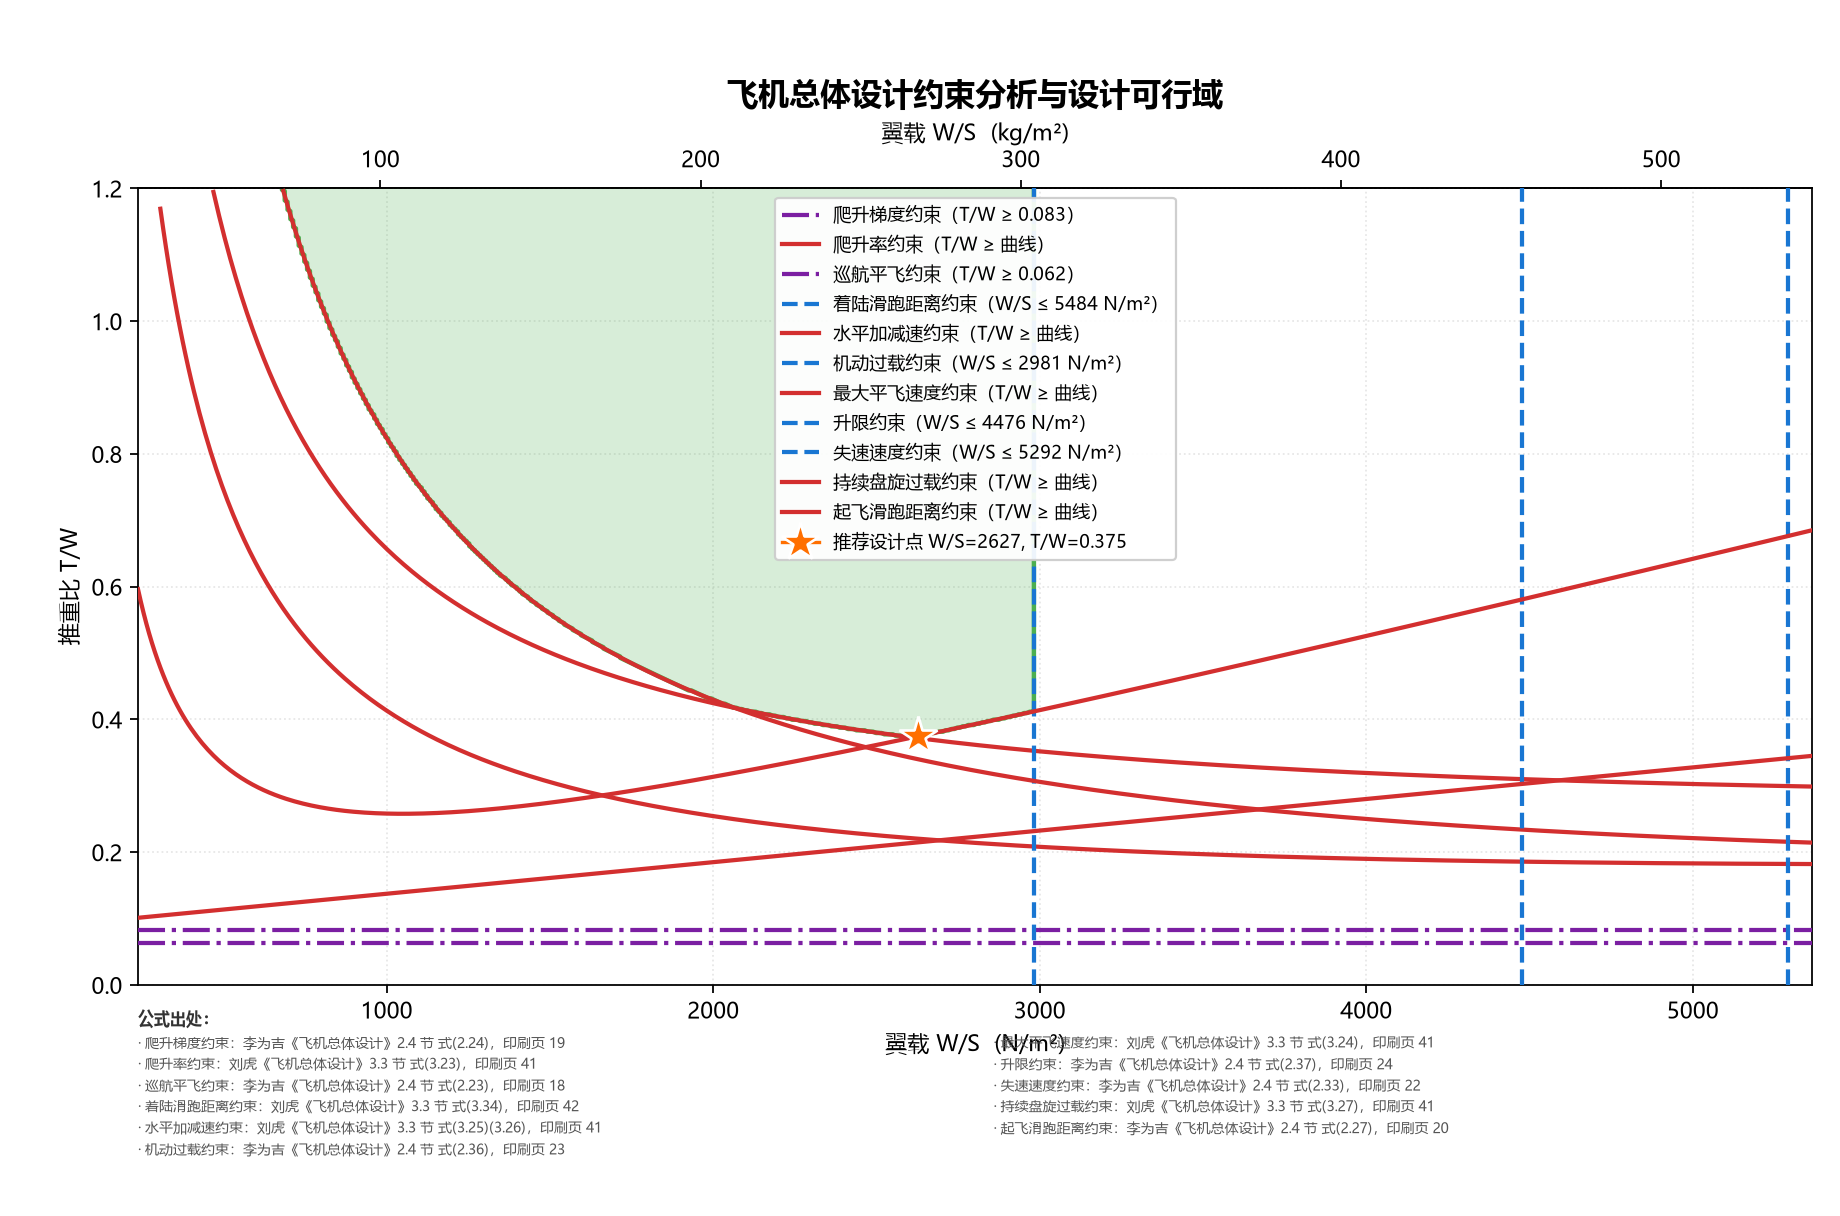
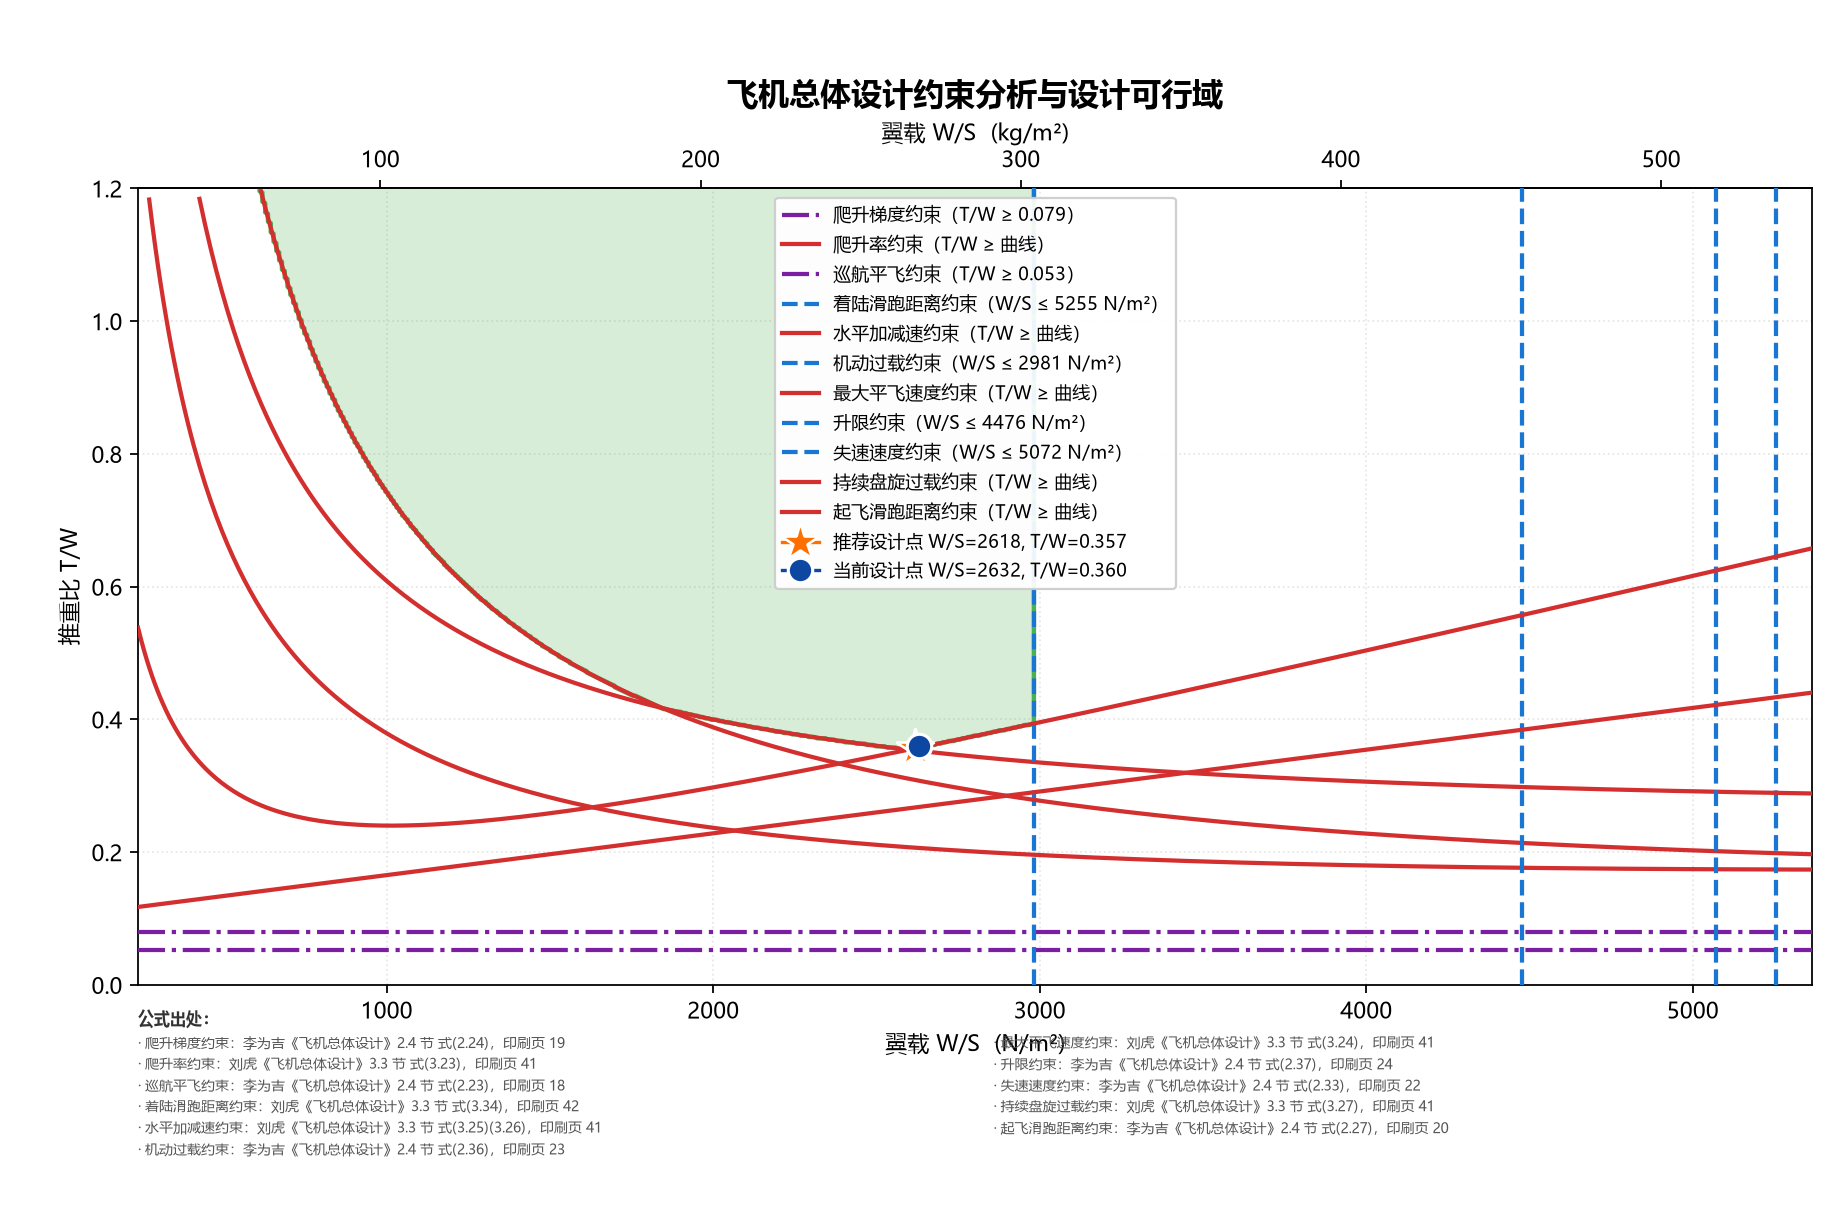
current design point

diff --git a/core/analyzer.py b/core/analyzer.py
@@ -61,6 +61,16 @@ class ConstraintTrace:
 
 
 @dataclass
+class PointEvaluation:
+    """对平面上某一点的设计校核结果。"""
+
+    ws: float
+    tw: float
+    feasible: bool
+    violated: list[str]          # 未满足的约束 key
+
+
+@dataclass
 class FeasibleRegion:
     """设计可行域。"""
 
@@ -105,6 +115,83 @@ class FeasibleRegion:
         col = int(np.flatnonzero(self.mask[row]).max())
         return float(self.ws_grid[col]), float(self.tw_grid[row])
 
+    @property
+    def current_design_point(self) -> tuple[float, float] | None:
+        """用户当前设计在 (W/S, T/W) 平面上的位置。
+
+        由 ``takeoff_weight``、``wing_area``、``takeoff_thrust`` 三个参数确定。
+        缺任一参数则返回 None。
+
+        注意：可行域本身与总重**无关**，改动总重只会移动本点，
+        不会改变可行域 —— 这是约束分析的固有性质，不是缺陷。
+        """
+        if self.params is None:
+            return None
+
+        weight = getattr(self.params, "takeoff_weight", None)
+        area = getattr(self.params, "wing_area", None)
+        thrust = getattr(self.params, "takeoff_thrust", None)
+        if not weight or not area or not thrust:
+            return None
+        if weight <= 0.0 or area <= 0.0:
+            return None
+
+        return float(weight / area), float(thrust / weight)
+
+    def evaluate_point(self, ws: float, tw: float) -> PointEvaluation:
+        """校核平面上任意一点，列出它未满足的约束。
+
+        Args:
+            ws: 翼载, N/m²。
+            tw: 推重比。
+
+        Returns:
+            `PointEvaluation`。
+        """
+        violated: list[str] = []
+
+        for trace in self.traces:
+            if trace.kind is ConstraintKind.CURVE:
+                required = float(np.interp(ws, trace.ws, trace.curve))
+                if not np.isfinite(required):
+                    violated.append(trace.key)
+                    continue
+                ok = (
+                    tw >= required
+                    if trace.sense is Sense.GE
+                    else tw <= required
+                )
+            elif trace.kind is ConstraintKind.VERTICAL:
+                ok = (
+                    ws <= trace.ws_bound
+                    if trace.sense is Sense.LE
+                    else ws >= trace.ws_bound
+                )
+            else:
+                ok = (
+                    tw >= trace.tw_bound
+                    if trace.sense is Sense.GE
+                    else tw <= trace.tw_bound
+                )
+
+            if not ok:
+                violated.append(trace.key)
+
+        return PointEvaluation(ws=ws, tw=tw, feasible=not violated, violated=violated)
+
+    def sizing_at(self, ws: float, tw: float) -> tuple[float, float] | None:
+        """把可行域上的一点折算成具体的机翼面积与推力。
+
+        Returns:
+            ``(机翼面积 S / m², 海平面静推力 F0 / N)``；缺总重参数时返回 None。
+        """
+        if self.params is None:
+            return None
+        weight = getattr(self.params, "takeoff_weight", None)
+        if not weight or weight <= 0.0 or ws <= 0.0:
+            return None
+        return float(weight / ws), float(weight * tw)
+
     def describe(self) -> str:
         """生成人类可读的结论摘要。"""
         from .units import wing_loading_n_to_kg
@@ -148,6 +235,44 @@ class FeasibleRegion:
                 f"  推荐设计点（T/W 最小）：W/S = {ws:.0f} N/m²"
                 f"（{wing_loading_n_to_kg(ws):.1f} kg/m²），T/W = {tw:.3f}"
             )
+            sizing = self.sizing_at(ws, tw)
+            if sizing is not None:
+                area, thrust = sizing
+                lines.append(
+                    f"      折算到起飞重量 → 机翼面积 S = {area:.1f} m²，"
+                    f"需海平面静推力 F0 = {thrust:,.0f} N"
+                )
+
+        current = self.current_design_point
+        if current is not None:
+            ws_c, tw_c = current
+            evaluation = self.evaluate_point(ws_c, tw_c)
+            weight = float(getattr(self.params, "takeoff_weight", 0.0))
+            area = float(getattr(self.params, "wing_area", 0.0))
+            lines.append("")
+            lines.append(
+                f"  当前设计点：W/S = {ws_c:.0f} N/m²"
+                f"（起飞重量 {weight:,.0f} N ÷ 机翼面积 {area:.1f} m²）"
+                f"，T/W = {tw_c:.3f}  —— "
+                + ("在可行域内" if evaluation.feasible else "不在可行域内")
+            )
+            if evaluation.violated:
+                names = [
+                    t.meta.name_cn for t in self.traces if t.key in evaluation.violated
+                ]
+                lines.append(
+                    f"      未满足的约束（{len(names)} 条）：{'、'.join(names)}"
+                )
+            else:
+                lines.append("      全部约束均满足")
+
+        lines.append("")
+        lines.append(
+            "  注：可行域只取决于 W/S 与 T/W，与总重**无关**。改动起飞重量 /"
+        )
+        lines.append(
+            "      机翼面积只会移动「当前设计点」，不会改变可行域本身。"
+        )
 
         lines.append("")
         lines.append("参与求交的约束（按单独可行面积占比升序，越靠前越是瓶颈）：")

diff --git a/config/params.py b/config/params.py
@@ -24,42 +24,54 @@ class DesignParams:
     # 任务与总体
     # ------------------------------------------------------------------
     takeoff_weight: float = 250_000.0
-    """起飞总重 W_TO, N（≈ 25.5 t）。"""
+    """起飞总重 W_TO, N（≈ 25.5 t）。
 
-    wing_area: float = 60.0
-    """机翼参考面积 S, m²。"""
+    注意：**可行域与总重无关** —— 约束分析在 (W/S, T/W) 平面上进行，总重只通过
+    ``W/S = W_TO/S`` 决定“当前设计点”落在平面上的哪个位置，不改变边界曲线。
+    单独改本参数只会移动当前设计点，不会改变可行域的面积与形状。
+    """
+
+    wing_area: float = 95.0
+    """机翼参考面积 S, m²。与 ``takeoff_weight`` 共同决定当前设计点的翼载 W_TO/S。"""
+
+    takeoff_thrust: float = 90_000.0
+    """海平面静止、最大油门下的安装推力 F0, N。
+
+    与 ``takeoff_weight`` 共同确定「当前设计点」的推重比 ``T/W = F0/W_TO``。
+    软件会把它画在图上，并校核它是否落在可行域内。默认值对应 T/W = 0.36。
+    """
 
     # ------------------------------------------------------------------
     # 气动特性
     # ------------------------------------------------------------------
-    aspect_ratio: float = 9.0
+    aspect_ratio: float = 8.5
     """机翼展弦比 A。"""
 
-    oswald_e: float = 0.80
+    oswald_e: float = 0.88
     """奥斯瓦尔德效率因子 e。战斗机 ≈0.6；其他 ≈0.8（李为吉 2.4 节，p.19）。"""
 
-    cd0_clean: float = 0.020
+    cd0_clean: float = 0.018
     """巡航构型零升阻力系数 C_D0。喷气机 ≈0.015；整流好的螺旋桨机 ≈0.020（p.19）。"""
 
-    cl_max_takeoff: float = 1.8
+    cl_max_takeoff: float = 1.7
     """起飞构型最大升力系数 C_Lmax,TO。"""
 
-    cl_max_landing: float = 2.4
+    cl_max_landing: float = 2.3
     """着陆构型最大升力系数 C_Lmax。带襟翼与前缘缝翼的常规运输机 ≈2.4（p.22）。"""
 
-    ld_takeoff: float = 9.0
+    ld_takeoff: float = 9.5
     """起飞滑跑状态升阻比 L/D。超音速机 5~6；亚音速机 8~10（p.20）。"""
 
-    ld_cruise: float = 16.0
+    ld_cruise: float = 19.0
     """巡航升阻比 L/D（式 2.23 取 1/(L/D) 作为巡航推重比）。"""
 
     # ------------------------------------------------------------------
     # 起飞约束（式 2.27）
     # ------------------------------------------------------------------
-    takeoff_ground_run: float = 1500.0
+    takeoff_ground_run: float = 1200.0
     """地面滑跑距离 L_TOG, m。"""
 
-    ground_friction_mu: float = 0.02
+    ground_friction_mu: float = 0.03
     """地面摩擦因数 μ_G。干水泥 0.02；湿水泥 0.03；硬土 0.07；草地 0.08（表 2.8，p.20）。"""
 
     # ------------------------------------------------------------------
@@ -77,7 +89,7 @@ class DesignParams:
     altitude_max_speed: float = 11_000.0
     """最大平飞速度对应高度, m。"""
 
-    cruise_speed: float = 230.0
+    cruise_speed: float = 225.0
     """巡航速度, m/s（备查，式 2.23 只用到升阻比）。"""
 
     # ------------------------------------------------------------------

diff --git a/plotting/plot_region.py b/plotting/plot_region.py
@@ -20,6 +20,8 @@ _CURVE_COLOR = "#D32F2F"
 _VERTICAL_COLOR = "#1976D2"
 _HORIZONTAL_COLOR = "#7B1FA2"
 _POINT_COLOR = "#FF6F00"
+_DESIGN_COLOR = "#0D47A1"       # 当前设计点落在可行域内
+_VIOLATION_COLOR = "#C62828"    # 当前设计点不满足部分约束
 
 _CJK_FONTS = (
     "Microsoft YaHei",
@@ -141,6 +143,31 @@ def plot_region(
             markeredgecolor="white", markeredgewidth=1.2, zorder=6,
             label=f"推荐设计点 W/S={ws_p:.0f}, T/W={tw_p:.3f}",
         )
+
+    # ---- 当前设计点（由 takeoff_weight / wing_area / takeoff_thrust 定位）----
+    current = region.current_design_point
+    if current is not None:
+        ws_c, tw_c = current
+        feasible = region.evaluate_point(ws_c, tw_c).feasible
+        inside = (
+            ws_grid[0] <= ws_c <= ws_grid[-1] and tw_grid[0] <= tw_c <= tw_grid[-1]
+        )
+        if inside:
+            ax.plot(
+                ws_c, tw_c, marker="o", markersize=11,
+                color=_DESIGN_COLOR if feasible else _VIOLATION_COLOR,
+                markeredgecolor="white", markeredgewidth=1.4, zorder=7,
+                label=("当前设计点" if feasible else "当前设计点（不满足约束）")
+                + f" W/S={ws_c:.0f}, T/W={tw_c:.3f}",
+            )
+        else:
+            ax.text(
+                0.985, 0.028,
+                f"当前设计点 W/S={ws_c:.0f}, T/W={tw_c:.3f}\n超出绘图窗口范围",
+                transform=ax.transAxes, ha="right", va="bottom", fontsize=8.5,
+                color=_VIOLATION_COLOR,
+                bbox=dict(boxstyle="round", fc="white", ec=_VIOLATION_COLOR, alpha=0.92),
+            )
 
     # ---- 坐标轴 ----
     ax.set_xlim(ws_grid[0], ws_grid[-1])

diff --git a/README.md b/README.md
@@ -111,6 +111,17 @@ python main.py
 | --- | --- | --- |
 | `takeoff_weight` | N | 起飞总重 W_TO |
 | `wing_area` | m² | 机翼参考面积 S |
+| `takeoff_thrust` | N | 海平面静止、最大油门下的安装推力 F0 |
+
+> **这三个参数不会改变可行域，它们只决定「当前设计点」的位置。**
+>
+> 可行域画在 $(W/S,\;T/W)$ 平面上，这两个量本身就是独立设计变量，因此
+> **可行域与总重无关**。总重 $W_{TO}$ 只通过两个比值影响你处在平面上的位置：
+>
+> $$\frac{W}{S} = \frac{W_{TO}}{S}, \qquad \frac{T}{W} = \frac{F_0}{W_{TO}}$$
+>
+> 所以：单独改 `takeoff_weight` 会同时移动设计点的横纵坐标，但**边界曲线一条都不会动**。
+> 软件会把这个点画在图上（蓝点）并告诉你它是否落在可行域内、违反了哪几条约束。
 
 #### 气动特性
 
@@ -302,6 +313,7 @@ python main.py --tw-max 0.2
 | **蓝色竖虚线** | `vertical` 型约束，纯翼载限值（失速速度、机动过载、升限） |
 | **紫色横点划线** | `horizontal` 型约束，纯推重比下限（爬升梯度、巡航平飞） |
 | **橙色五角星** | 推荐设计点——可行域内 T/W 最小者 |
+| **蓝色圆点** | 当前设计点——由 `takeoff_weight` / `wing_area` / `takeoff_thrust` 定位；若不可行则显示为红色 |
 | **底部小字** | 每条约束的公式出处（书名 + 章节 + 式号 + 页码） |
 
 **为什么可行域是这个形状？** 两条红色曲线的作用方向相反：
@@ -543,6 +555,23 @@ output/                          生成的图表（不入库）
 
 系统缺少中文字体。Windows 一般自带「微软雅黑」；Linux 请安装 `fonts-noto-cjk`，
 并清掉 matplotlib 的字体缓存（`~/.cache/matplotlib`）。
+
+### 改了起飞重量，图怎么没变化？
+
+**这是正常的，不是 bug。** 约束分析在 $(W/S,\;T/W)$ 平面上进行，这两个量本身就是
+设计变量，因此可行域**与总重无关**——重一倍的飞机配上大一倍的机翼，起飞距离、
+爬升、失速速度全都一样。
+
+总重只影响「当前设计点」的位置：$W/S = W_{TO}/S$、$T/W = F_0/W_{TO}$。
+你应该看到的是**蓝点在图上移动**，而不是曲线移动。若蓝点跑到可行域外，
+终端会告诉你它违反了哪几条约束。
+
+终端还会把推荐设计点折算成具体指标，帮你把平面上的结论变成可执行的方案：
+
+```text
+  推荐设计点（T/W 最小）：W/S = 2618 N/m²，T/W = 0.357
+      折算到起飞重量 → 机翼面积 S = 95.5 m²，需海平面静推力 F0 = 89,149 N
+```
 
 ### 设计可行域为空
 
